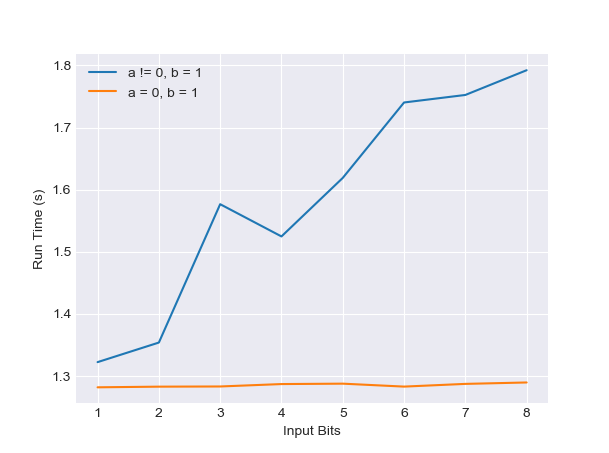
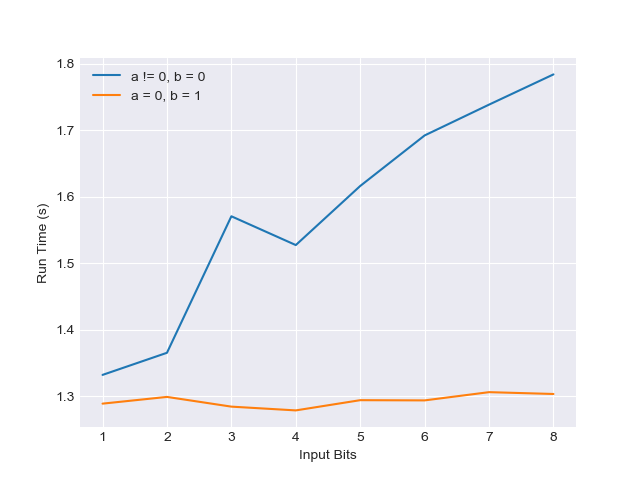
Fixing up python files and adding README

diff --git a/PyQuil/DJ-BV/bv_experiment.py b/PyQuil/DJ-BV/bv_experiment.py
@@ -6,6 +6,7 @@ from pyquil import Program
 from pyquil.gates import *
 from pyquil import get_qc
 from pyquil.api import local_qvm
+import time
 
 
 class Bernstein_Vazirani():
@@ -63,8 +64,7 @@ class Bernstein_Vazirani():
 
         # first convert a into a bitstring for easy use
         a = self.int_to_bits(a, self.n)
-        print('Expected:')
-        print(a)
+        print('Expected:', a)
 
         for i, _a in enumerate(a):
             # wherever _a is 1, we insert a CNOT into the system targeting the helper bit
@@ -104,28 +104,32 @@ class Bernstein_Vazirani():
         return y
 
 
+def run_BV(n, a, b):
+    # setup the experiment
+    bv = Bernstein_Vazirani(n)
+    p = bv.build_circuit(a, b)
+
+    # actually perform the measurement
+    qvm = get_qc('9q-square-qvm')
+    with local_qvm():
+        # one way of measuring:
+        t = time.time()
+        executable = qvm.compile(p)
+        result = qvm.run(executable)
+        return_time = time.time() - t
+
+        print('Result:', result)
+        print()
+
+    return result, return_time
+
 def main():
     n = 5  # the number of bits in f: {0,1}^n → {0,1}
 
     a = 25  # the a in f(x) = a*x + b
     b = 1  # the b in f(x) = a*x + b
 
-    # setup the experiment
-    bv = Bernstein_Vazirani(n)
-    p = bv.build_circuit(a, b)
-
-    # multiple trials - check to make sure that the probability for getting the given outcome is 1
-    p.wrap_in_numshots_loop(1)
-
-    # actually perform the measurement
-    qvm = get_qc('9q-square-qvm')
-    with local_qvm():
-        # one way of measuring:
-        executable = qvm.compile(p)
-        result = qvm.run(executable)
-        print('Results:')
-        print(result)
-        print()
+    run_BV(n, a, b)
 
 
 if __name__ == '__main__':

diff --git a/PyQuil/DJ-BV/time_measurement/measure_bv.py b/PyQuil/DJ-BV/time_measurement/measure_bv.py
@@ -23,7 +23,6 @@ def run_bv(n, a, b):
         result = qvm.run(executable)
         return_time = time.time() - t
 
-        print(result)
         print('Result:', result[0])
         print()
 
@@ -35,7 +34,7 @@ def main():
     complex_times = []
     simple_times = []
     for n in [1, 2, 3, 4, 5, 6, 7, 8]:
-        _, return_time = run_bv(n, a=(2**n)-1, b=1)
+        _, return_time = run_bv(n, a=(2**n)-1, b=0)
         complex_times.append([n, return_time])
 
         _, return_time = run_bv(n, a=0, b=1)
@@ -45,7 +44,7 @@ def main():
     simple_times = np.array(simple_times)
 
     plt.figure()
-    plt.plot(complex_times[:, 0], complex_times[:, 1], label='a != 0, b = 1')
+    plt.plot(complex_times[:, 0], complex_times[:, 1], label='a != 0, b = 0')
     plt.plot(simple_times[:, 0], simple_times[:, 1], label='a = 0, b = 1')
     plt.legend()
     plt.xlabel('Input Bits')

diff --git a/PyQuil/DJ-BV/README.md b/PyQuil/DJ-BV/README.md
@@ -1,0 +1,38 @@
+## Instructions for running the Deutsch-Jozsa and Bernstein-Vazirani algorithms
+
+### Deutsch-Jozsa
+```dj_experiment.py``` is the script used run the Deutsch-Jozsa algorithm on a given 
+oracle function (f).  To use this script, you need to type out f as a list of lists. 
+
+The outer list will consist of 2^n inner lists. Each inner list will be n+1 in length. 
+The first n elements will be the input bitstring to f, and the final element will be 
+the resulting output. 
+
+Due to the use of helper bits in this implementation, ```n ≤ 5``` for any f. 
+
+Example:
+
+    f = [[0,0,0], [0,1,0], [1,0,1], [1,1,1]]
+    
+    Here n = 2 and f is a balanced function as half the outputs are 1.
+
+Once you have your f ready, all that is necessary is to call ```run_DJ(f)```.
+This function will run Deutsch-Jozsa on f 5 times, and will print the 5 results 
+in an array.
+
+Currently there are 3 calls to run_DJ() present at the end of the script. 
+You can add your call after these or simply delete them.
+
+### Bernstein-Vazirani
+
+```bv_experiment.py``` is the script used run the Bernstein-Vazirani algorithm on a 
+given function. To use this script, you will need to define the integers n, a, and b. 
+
+The variable n is used to represent the number of input bits. The variables a and b 
+are used to represent the function, ```f(x)=a*x+b```. Simply pass these values into 
+```run_BV(n, a, b)``` and it will create the circuit, insert U_f, compile the program, 
+and run it on a qvm. This function will run Bernstein-Vazirani on f 5 times, and will 
+print the 5 results in an array. The results and execution time is returned by this 
+function.
+
+You may add your calls to ```run_BV()``` at the end of the ```main()``` function.
